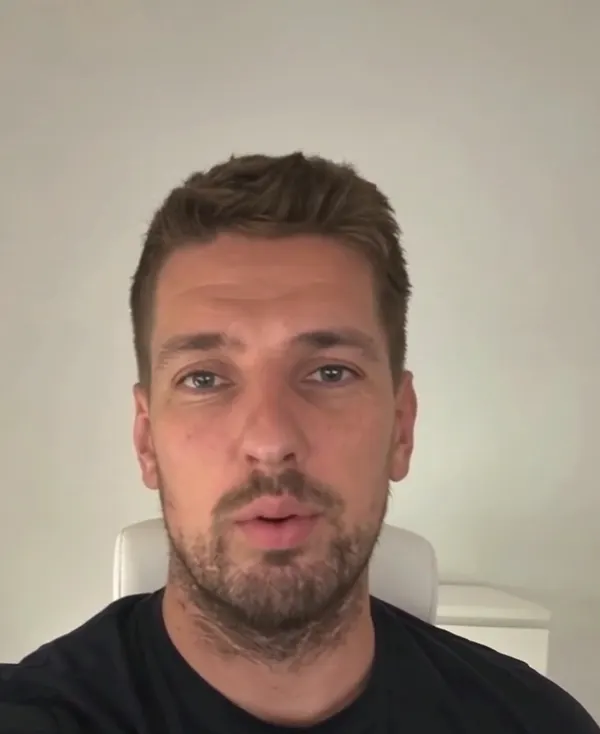
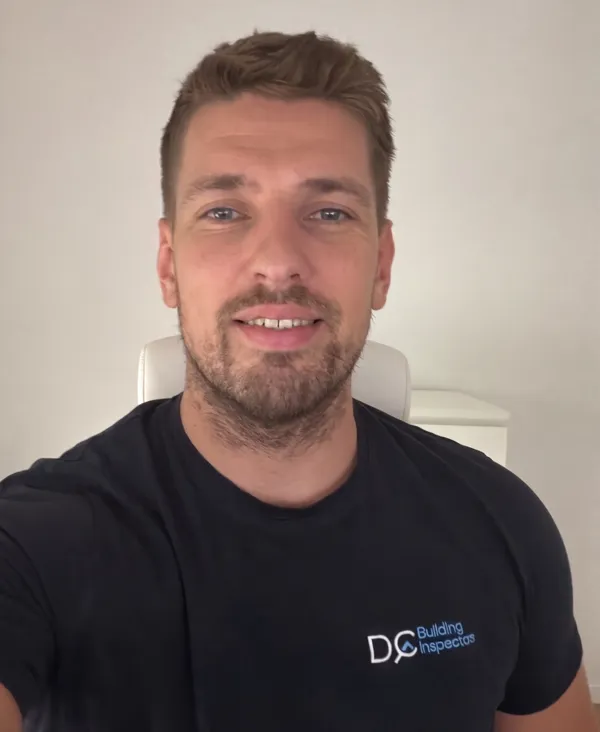
A2 landing page: better portrait (smiling photo look), VSL spec per Jeremy
Claude-Session: https://claude.ai/code/session_01U7BUf8kkSe78JUAWrNG7i6

diff --git a/landing/lp-a2-auction.md b/landing/lp-a2-auction.md
@@ -63,7 +63,7 @@ Visual reference: `lp-a2-auction.html` (also published as a claude.ai artifact).
 
 ## Photos (Jeremy follow-up: 8.5 → est. 9.0–9.5 if mobile load stays under ~2.3s)
 Order: hero → form → Google proof card → how it works (defect photo at step 2, report-ready phone at step 3) → price → FAQ → final CTA.
-- **Hero (Jeremy option D, est. +0.2–0.3):** David portrait card (`img/david-hero.webp`, 11 KB, a calm frame from the A2 HeyGen video, black shirt, mirrored to match the ad). Mobile: 112×136 rounded card under the sub, with name, ★ 4.9 · 529 and BPC beside it, and the form's first option at ~590px. Desktop (≥900px): 300×367 card in the right column beside the headline. Never a big full-width hero photo (it pushes the form off-screen, -0.3 to -0.5) and never a house/defect photo as the hero (it breaks congruency with the ad). Only one avatar still.
+- **Hero (Jeremy option D, est. +0.2–0.3):** David portrait card (`img/david-hero.webp`, 11 KB, HeyGen photo look `389a1d384e5f425b87feed5f055b1fb4`, smiling, black shirt, flipped so the logo reads correctly). Mobile: 112×136 rounded card under the sub, with name, ★ 4.9 · 529 and BPC beside it, and the form's first option at ~590px. Desktop (≥900px): 300×367 card in the right column beside the headline. Never a big full-width hero photo (it pushes the form off-screen, -0.3 to -0.5) and never a house/defect photo as the hero (it breaks congruency with the ad). Only one avatar still.
 - **Baseline to beat:** current Google Ads landing conversion is 5%.
 - **Under the form:** Google proof card, 4.9 · 529 reviews + BPC DBU-66182 chip (pure CSS, no image).
 - **Step 2:** defect photo (`img/defect.webp`, from the Drive crack footage). **Swap for 2–3 real report page screenshots with annotated defects, address blurred**, once David supplies them.
@@ -71,3 +71,18 @@ Order: hero → form → Google proof card → how it works (defect photo at ste
 - **Never:** stock photos, house clipart, smiling families.
 - **Speed:** WebP, `loading="lazy"` below the fold, width/height set. Test on a real phone on 4G before launch.
 - **Measure:** snapshot the conversion rate by source before the photos go live so the lift can be proved.
+
+## VSL (Jeremy: option 3, est. +0.2–0.4 if speed holds)
+- **Placement:** below the form, before "How it works". Never at the top (est. -0.3 or worse: cold mobile traffic doesn't press play, and it pushes the form down).
+- **Length and format:** 45–60s, 9:16. HeyGen David as the talking-head spine, cut with real footage (property walk, brickwork crack, report pages, phone notification). Captions burned in.
+- **Playback:** tap-to-play only, never autoplay. Thumbnail shows David's face plus a caption. Use a host with play-rate analytics.
+- **Beats (~50s):**
+  1. Callout (5s): "Bidding at auction this week in Melbourne? Here's what you need to know before you bid."
+  2. Stake (8s): a hidden defect vs a $550 inspection.
+  3. Who (8s): BPC registered, 4.9 from 529 reviews, with the proof card on screen.
+  4. What you get (12s): the report photos.
+  5. Guarantee (8s): same-day report or your money back, with the notification graphic.
+  6. CTA (5s): "Takes two minutes, book below."
+- **Test:** current page vs page + VSL, same traffic, 72h minimum. Judge on cost per booked inspection, not only conversion rate.
+- **Thumbnail check:** if play rate among people who reach the section is under ~20%, fix the thumbnail or placement.
+- **Later:** test a real talking-head version shot on site against the avatar cut.
